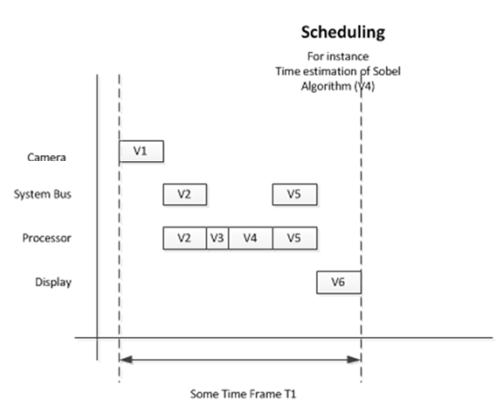
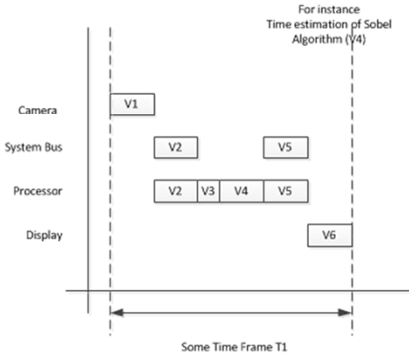
Added voltage scheduling

diff --git a/sections/Scheduling.tex b/sections/Scheduling.tex
@@ -1,11 +1,13 @@
 \section{Scheduling \weekDoran{2}}
-	\begin{itemize}
-	  \item The scheduling diagram indicates how much time is necessary for each of the tasks, how much time is left until the cycle time is is reached and which system architecture element is affected by which task.
-	  \item If the same task is affected by multiple elements, that is indicated by showing that this runs at the same time, not after one another. Otherwise it should be split into multiple tasks.
-	  \item The tasks in the scheduling diagram are the same tasks as drawn in the left part of the binding diagram.
-	\end{itemize}
+	\begin{multicols}{2}		
+		\begin{compactitem}
+		  \item The scheduling diagram indicates how much time is necessary for each of the tasks, how much time is left until the cycle time is is reached and which system architecture element is affected by which task.
+		  \item If the same task is affected by multiple elements, that is indicated by showing that this runs at the same time, not after one another. Otherwise it should be split into multiple tasks.
+		  \item The tasks in the scheduling diagram are the same tasks as drawn in the left part of the binding diagram.
+		\end{compactitem}
 	
-	\includegraphics[width=0.45\textwidth]{./pictures/scheduling.png}
+		\includegraphics[width=0.35\textwidth]{./pictures/scheduling.png}
+	\end{multicols}	
 	
 	\subsection{Scheduling Time Measurements}
 	\begin{table}[H]\centering
@@ -19,8 +21,8 @@
 			\hline
 				Maximum task scaling factor
 					& The factor, by which the time spent in the CPU's tasks can be multiplied so that the idle time is exactly the time that the other elements require while the CPU is idle: \newline 
-					{\Large $T_{IdleNew} = T_{CycleMax} - x \cdot T_{CPU} = T_{OtherElem}$} \newline 
-					{\Large $x = \frac{T_{CycleMax} - T_{OtherElem}}{T_{CPU}}$} \newline
+					{$T_{IdleNew} = T_{CycleMax} - x \cdot T_{CPU} = T_{OtherElem}$} $\rightarrow$
+					{$x = \frac{T_{CycleMax} - T_{OtherElem}}{T_{CPU}}$} \newline
 					This implies that the complete cycle time is being used!\\
 			\hline
 		\end{tabular}
@@ -29,15 +31,15 @@
 	\subsection{List Scheduling}
 		The algorithm of list scheduling goes as follows:
 		
-		\begin{enumerate}
+		\begin{compactenum}
 			\item Order tasks with decreasing (static) priority.
 			\item Repeat until a valid schedule is obtained:
-			\begin{enumerate}
+			\begin{compactenum}
 			  \item Select the task with the highest priority.
 			  \item Select a resource to accommodate this task.
 			  \item If no resource can be found, select next task in the list.
-			\end{enumerate}
-		\end{enumerate}
+			\end{compactenum}
+		\end{compactenum}
 		
 		\begin{table}[H]\centering
 			\begin{tabular}{p{0.425\linewidth}p{0.425\linewidth}}
@@ -49,7 +51,7 @@
 	\subsection{First Come First Served Scheduling}
 		Is a non-preemptive scheduling technique. Starvation is not an issue, since there is no priority assigned to tasks. However, fairness is an issue because long tasks dominate.
 		\begin{figure}[H]\centering
-			\includegraphics[scale=0.6]{./pictures/firstComeFirstServe.png}
+			\includegraphics[scale=0.5]{./pictures/firstComeFirstServe.png}
 		\end{figure}
 			
 	\subsection{Round Robin Scheduling}
@@ -58,49 +60,67 @@
 		The execution time is divided up into time slices, each task gets to run for a time slice, after which the next task is allowed to do the same. This algorithm is starvation-free.
 
 		Conditions for operation:
-		\begin{itemize}
+		\begin{compactitem}
 		  \item Tasks need to be preemptive
-		\end{itemize}
+		\end{compactitem}
 		
 		\begin{figure}[H]\centering
-			\includegraphics[scale=0.6]{./pictures/roundRobin.png}
+			\includegraphics[scale=0.5]{./pictures/roundRobin.png}
 		\end{figure}
 		
 	\subsection{Rate Monotonic Scheduling}
 		Rate monotonic scheduling assigns a higher priority the highest repetition rate of a task, i.e. a task that has the shortest period has the highest priority. It is a preemptive scheduling technique.
 		
 		Conditions for operation:
-		\begin{itemize}
+		\begin{compactitem}
 		  \item Tasks need to be preemptive
 		  \item Tasks need deterministic deadlines
-		\end{itemize}
+		\end{compactitem}
 		
-		A sufficient (but not necessary) condition for a set of tasks with unique periods to be schedulable is:
-		
+		A sufficient (but not necessary) condition for a set of tasks with unique periods to be schedulable is:		
 		\begin{equation*}
 			\begin{aligned}
 				U &= \sum_{i=1}^{n} \frac{C_i}{T_i} \leq n(\sqrt[n]{2}-1)\\
 				U &= \text{CPU utilisation}\\
 				n &= \text{Number of tasks}\\
-				C_{i} &= \text{Computation time}
+				C_{i} &= \text{Computation time} \\
 				T_{i} &= \text{Release period (one period before the deadline)}\\
 			\end{aligned}
 		\end{equation*}
 		
 		Since this condition is not necessary, it means that a well designed system could still schedule these tasks with a higher CPU utilisation.
 		
-		\begin{itemize}
+		\begin{compactitem}
 		  \item At $t = 0$ all periods start running.
 		  \item A task is only interrupted if a task with higher priority is in the queue.
 		  \item A task leaves the queue when it is executed to completion or when its period starts again.
-		\end{itemize}
+		\end{compactitem}
 
 		\begin{table}[H]\centering
 			\begin{tabular}{p{0.7\linewidth}p{0.25\linewidth}}
 				\includegraphics[scale=0.45]{./pictures/rateMonotonicSched.png}
-					& \raisebox{1.25cm}{\includegraphics[scale=0.4]{./pictures/rateMonotonicCiTi.png}}\\
+					& \raisebox{1.25cm}{\includegraphics[scale=0.35]{./pictures/rateMonotonicCiTi.png}}\\
 			\end{tabular}
 		\end{table}
 		
 	\subsection{Voltage Scheduling}	
-		\todo{Add Voltage Scheduling}
+		Voltage Scheduling redcues the voltage of the processor (and hence the clock frequency) in order to save power. It saves energy to execute jobs as slowly as possible while still satisfying all timing constraints. 
+		\begin{multicols}{2}
+			\includegraphics[scale=0.75]{./pictures/voltage_scheduling_bindings.png} \\
+			The scaling factors for the tasks can be calculated as follows: \\
+			\begin{equation*}
+				\begin{aligned}
+					scale_j&=\frac{d_{destination}-r_{source}}{\sum_{i}worst\_exec\_time_i} \\
+					task\_scale_j&=\frac{d_{destination}-r_{source}-\sum_{i}worst\_exe\_time_i}{\sum_{i\_on\_processor}worst\_exec\_time_i}+1 \\
+				\end{aligned}
+			\end{equation*}
+		\end{multicols}
+	
+		\begin{longtable}{p{0.425\linewidth}p{0.425\linewidth}}
+			\includegraphics[scale=0.26]{./pictures/voltage_scheduling_1.png}
+			& \includegraphics[scale=0.35]{./pictures/voltage_scheduling_2.png}\\
+			Initial valid schedule & Task execution times multiplied by a ratio of 16/12 \\
+			\includegraphics[scale=0.35]{./pictures/voltage_scheduling_3.png}
+			& \includegraphics[scale=0.3]{./pictures/voltage_scheduling_4.png}\\
+			Task execution times multiplied by a ratio of 11/8 & Task execution times multiplied by a ratio of 7/5.5 \\
+		\end{longtable}

diff --git a/sections/HwSwCoDesign.tex b/sections/HwSwCoDesign.tex
@@ -1,25 +1,26 @@
 \section{HW/SW Co-Design \weekDoran{1}}
 	\subsection{System Architecture Specification}
 	
-		\begin{itemize}
+		\begin{compactitem}
 		  \item Specifies the individual components of a system.
 		  \item Arrows indicate data flow
 		  \item {\color{red}\textbf{THE BUS IS AN ACTIVE ELEMENT!!!}}
 		  \item Elements that can compute things but are only used as passive components (like memory) are drawn as memories.
-		\end{itemize}
+		\end{compactitem}
 		
-		\begin{table}[H]
-			\begin{tabular}{cc}
-				\includegraphics[width=0.45\textwidth]{./pictures/systemArchDiagram.png}
-					& \includegraphics[width=0.45\textwidth]{./pictures/systemArchKey.png}
-			\end{tabular}
-		\end{table}
-		
+		\begin{multicols}{2}
+			\includegraphics[width=0.45\textwidth]{./pictures/systemArchDiagram.png} \\
+			\includegraphics[width=0.45\textwidth]{./pictures/systemArchKey.png}
+		\end{multicols}
+	
+\newpage		
+
 	\subsection{Bindings}
-		\begin{itemize}
-		  \item The left part of the binding diagram shows the program flow, with each task as a bubble and arrows that indicate the flow. 
-		  \item The right part of the binding diagram shows the system elements, with each element as a bubble. The arrows between the elements are the same data flow connections as in the system architecture diagrams.
-		  \item The arrows between the left and the right side of the binding diagram indicate which elements are affected by which tasks.
-		\end{itemize}
-		
-		\includegraphics[width=0.45\textwidth]{./pictures/bindings.png}
+		\begin{multicols}{2}
+			\includegraphics[width=0.45\textwidth]{./pictures/bindings.png} 
+			\begin{compactitem}
+			  \item The left part of the binding diagram shows the program flow, with each task as a bubble and arrows that indicate the flow. 
+			  \item The right part of the binding diagram shows the system elements, with each element as a bubble. The arrows between the elements are the same data flow connections as in the system architecture diagrams.
+			  \item The arrows between the left and the right side of the binding diagram indicate which elements are affected by which tasks.
+			\end{compactitem}		
+		\end{multicols}

diff --git a/sections/Softcore.tex b/sections/Softcore.tex
@@ -32,6 +32,7 @@
 		\end{multicols}
 	
 	\subsection{Custom Components and Instructions \weekMaehne{2}} 
+		%\todo{Allenfalls in Kapitel 8 verschieben} \\
 		\begin{minipage}[H]{0.8\textwidth}
 			\begin{compactitem}
 				\item Custom components and instructions can increase system performance

diff --git a/sections/Avalon.tex b/sections/Avalon.tex
@@ -170,7 +170,7 @@
 							\vertlines{1,3,5,7,9,11,13,15,17,19}
 						\end{scope}
 					\end{pgfonlayer}
-				\end{tikztimingtable}	\\ \\ \\ \\ \\ \\
+				\end{tikztimingtable}	\\ \\ \\ \\ \\ \\ \\ \\
 			\end{multicols}		
 		
 		\subsubsection{Avalon MM Slave \weekMaehne{3}}
